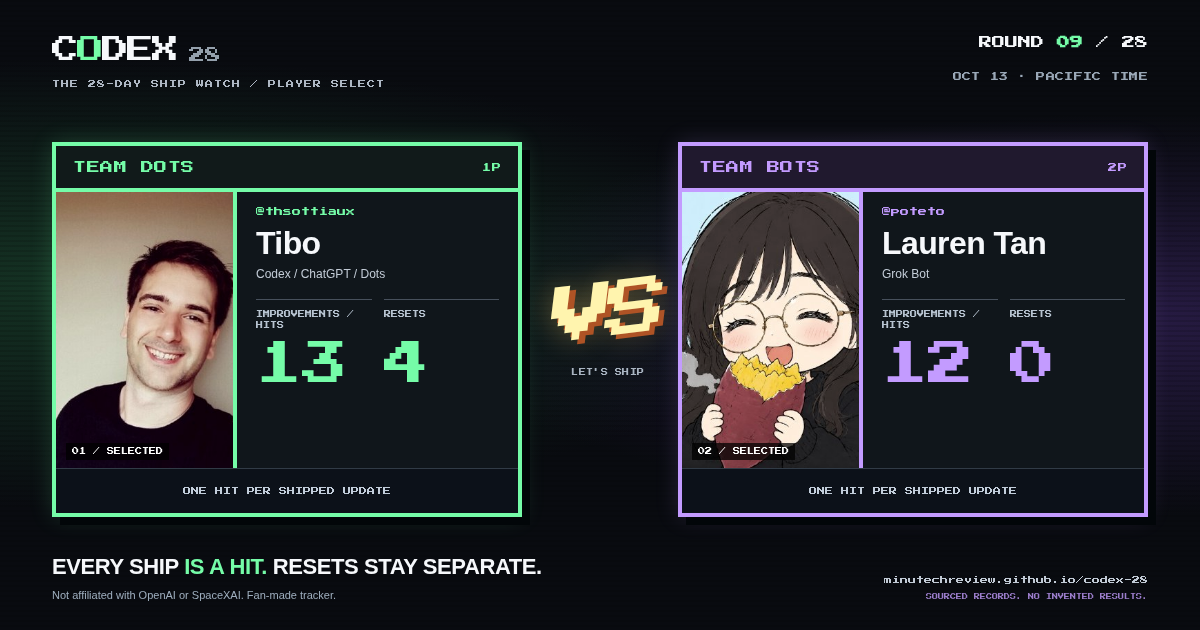
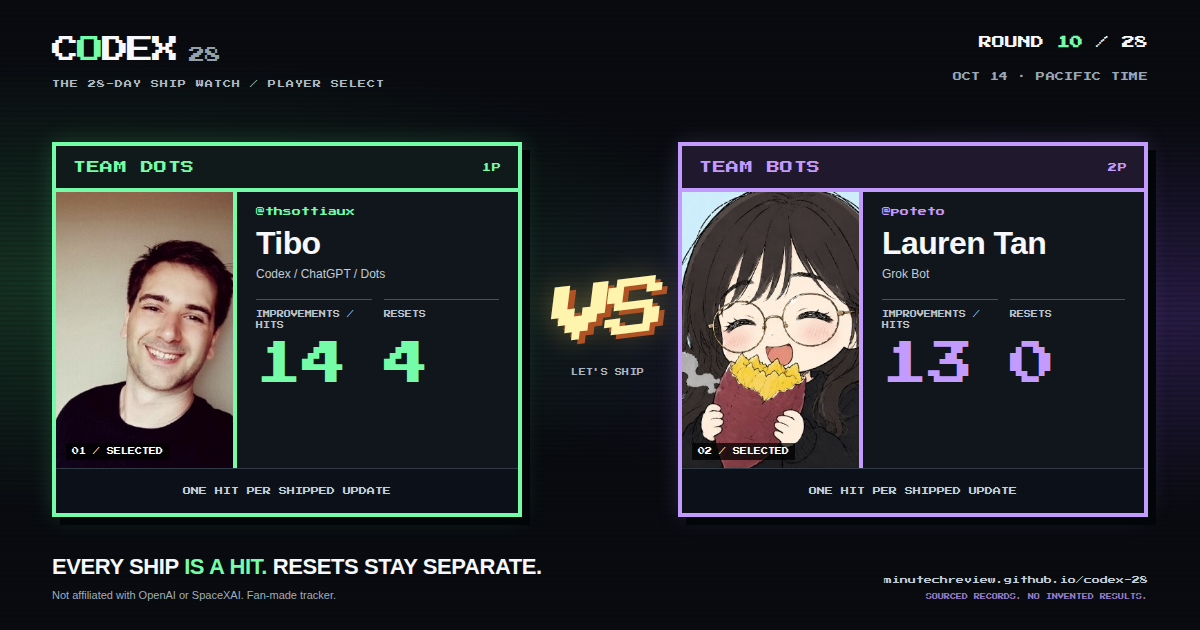
Codex 28 Day 9: Tibo 9.1 (desktop disk storage -60%) + Grok Bot 10.1 (Grok Voice 3.0 voice mode)
Record Tibo's Day 9 desktop disk-storage improvement in data.json and as versus.json item 9.1, and Grok Bot 10.1 (Grok Voice 3.0 voice mode) on Day 10. Day 10 in data.json stays pending. Score: 14 Dots improvements vs 13 Bots improvements; resets stay off the hit total.

diff --git a/index.html b/index.html
@@ -3,7 +3,7 @@
 <head>
 <meta charset="utf-8"><meta name="viewport" content="width=device-width, initial-scale=1"><meta name="theme-color" content="#090b10">
 <meta name="description" content="Team Dots versus Team Bots. A 28-round fan tracker of sourced improvements and resets.">
-<meta property="og:title" content="CODEX 28 — TEAM DOTS VS TEAM BOTS"><meta property="og:description" content="Team Dots: 13 confirmed hits, 4 resets, 20 pending days. Team Bots: 12 confirmed hits, 0 resets, 0 pending days."><meta property="og:type" content="website"><meta property="og:url" content="https://minutechreview.github.io/codex-28/"><meta property="og:image" content="https://minutechreview.github.io/codex-28/assets/versus-share.png"><meta property="og:image:width" content="1200"><meta property="og:image:height" content="630"><meta property="og:image:alt" content="Original arcade VERSUS card with portraits of Tibo and Lauren Tan. Team Dots: 13 confirmed hits, 4 resets, 20 pending days. Team Bots: 12 confirmed hits, 0 resets, 0 pending days."><meta name="twitter:card" content="summary_large_image">
+<meta property="og:title" content="CODEX 28 — TEAM DOTS VS TEAM BOTS"><meta property="og:description" content="Team Dots: 14 confirmed hits, 4 resets, 19 pending days. Team Bots: 13 confirmed hits, 0 resets, 0 pending days."><meta property="og:type" content="website"><meta property="og:url" content="https://minutechreview.github.io/codex-28/"><meta property="og:image" content="https://minutechreview.github.io/codex-28/assets/versus-share.png"><meta property="og:image:width" content="1200"><meta property="og:image:height" content="630"><meta property="og:image:alt" content="Original arcade VERSUS card with portraits of Tibo and Lauren Tan. Team Dots: 14 confirmed hits, 4 resets, 19 pending days. Team Bots: 13 confirmed hits, 0 resets, 0 pending days."><meta name="twitter:card" content="summary_large_image">
 <title>CODEX 28 — DOTS VS BOTS</title><link rel="icon" href="./assets/versus-favicon.svg" type="image/svg+xml"><link rel="stylesheet" href="./versus.css"><script type="module" src="./versus-app.js"></script>
 </head>
 <body>

diff --git a/README.md b/README.md
@@ -32,7 +32,7 @@ Static social crawlers cannot execute the runtime JSON fetch. Regenerate the sha
 
 `data.json` holds Tibo day records (unchanged; the live Worker validates it strictly); `versus.json` holds the top-level teams plus aligned per-day numbered update lists for both sides: `days[].tibo` (taken from the numbered items already in `data.json`'s summaries) and `days[].grokbot`. The read-only adapter loads both and requires their calendars to match. Both actual files and their strict schemas are preserved; unknown fields are rejected. See [counting rules](docs/versus-rules.md) and [full repository audit](docs/repository-audit.md).
 
-Both sides are counted the same way: **every listed shipped update is one hit**, shown per day from Day 1. Usage resets come from `data.json`'s day status, show on their day as a USAGE RESET card and have their own counter, but never count as hits and never zero out that day's launches. Current totals: **Tibo 13 hits / 4 resets, Grok Bot 12 hits / 0 resets.** Each round goes to the side with more improvements that day; equal counts draw; a day where either side is still pending is UNRESOLVED. A final KO after round 28 uses greater total hits; ties draw. No winner is invented.
+Both sides are counted the same way: **every listed shipped update is one hit**, shown per day from Day 1. Usage resets come from `data.json`'s day status, show on their day as a USAGE RESET card and have their own counter, but never count as hits and never zero out that day's launches. Current totals: **Tibo 14 hits / 4 resets, Grok Bot 13 hits / 0 resets.** Each round goes to the side with more improvements that day; equal counts draw; a day where either side is still pending is UNRESOLVED. A final KO after round 28 uses greater total hits; ties draw. No winner is invented.
 
 The second fighter is **Lauren Tan (@poteto, she/her)**, using `assets/poteto.jpg` on the right. Tibo uses `assets/tibo.jpg` on the left. The October 5–November 1 window is this project's counting convention, not a verified official schedule. The countdown uses America/Los_Angeles and respects the 25-hour final DST day.
 

diff --git a/docs/versus-rules.md b/docs/versus-rules.md
@@ -16,7 +16,7 @@ Rayan's rule: count every shipped update/improvement on both sides, shown per da
 
 Each round goes to the side with **more improvements that day**. Equal counts are a **DRAW** (including two empty lanes on a reported day). If either side's day is still **pending** in `data.json`, or any entry is unclassified, the round is **UNRESOLVED**. Empty lanes show **NO MOVE**.
 
-Current rounds: 1 draw (1–1), 2 Team Dots (4–1), 3 Team Bots (3–2), 4 Team Dots (2–1), 5 Team Bots (3–2), 6 Team Bots (2–0), 7 Team Dots (2–1), 8 unresolved (Tibo reset only; Grok Bot pending). Totals: Tibo 13 hits / 4 resets, Grok Bot 12 hits / 0 resets.
+Current rounds: 1 draw (1–1), 2 Team Dots (4–1), 3 Team Bots (3–2), 4 Team Dots (2–1), 5 Team Bots (3–2), 6 Team Bots (2–0), 7 Team Dots (2–1), 8 draw (0–0, Tibo reset only), 9 Team Dots (1–0), 10 unresolved (Tibo day still pending; Grok Bot 1). Totals: Tibo 14 hits / 4 resets, Grok Bot 13 hits / 0 resets.
 
 A window-end **KO** requires the window to have ended and all records to be classified with no pending days. Winner = greater total hits; equal totals = final draw.
 
